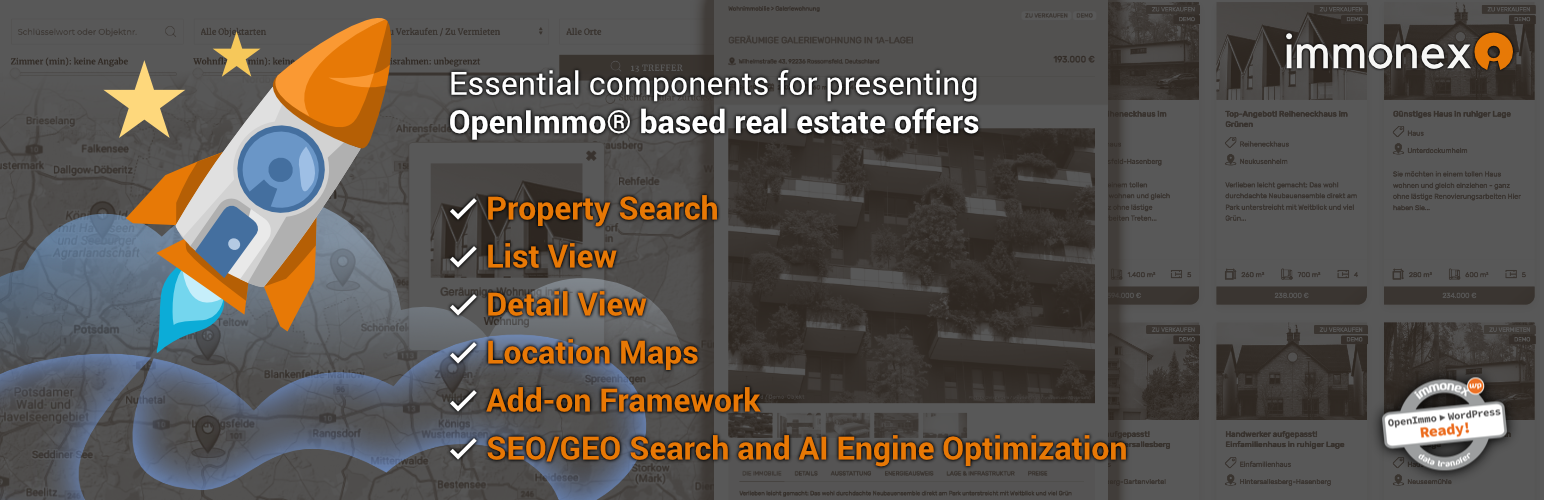
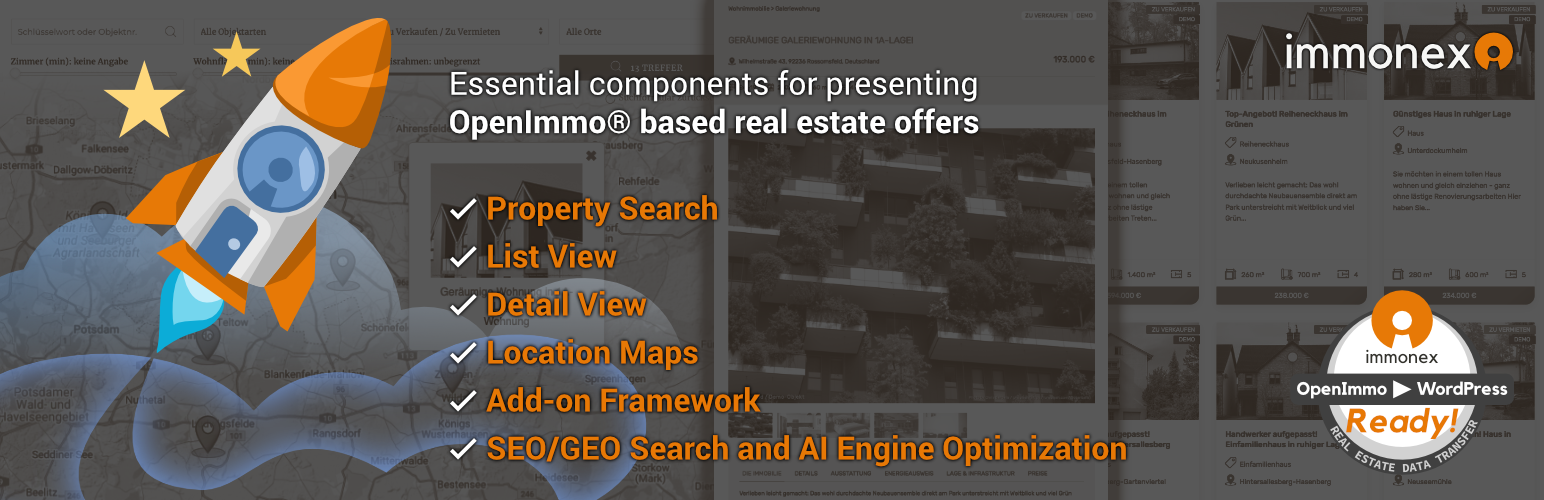
feat: search result page handling
- add "current" option for the search form shortcode attribute
   results-page-id
 - add JS-based automatic determination of the result page for
   real estate searches (search form action)
 - fix advanced search section closing bug
 - update REST URLs in JS components and dynamic CSS URLs to be
   compatible with plain permalink structures
 - update dependencies (i.a. core 2.7.0)
 - update user/dev documentation
 - update header images
 - bump stable version to 1.13.0

Changed region(s): [[0.8394, 0.57, 0.9948, 0.96]]

diff --git a/src/js/property_search.js b/src/js/property_search.js
@@ -141,7 +141,7 @@ function invokeComponentUpdates(searchFormID, searchForm, formIndex) {
 		.replace(/\[[0-9]+\]/, '') // Remove numeric indices from array parameters, too.
 
 	let url = inx_state.core.rest_base_url + 'immonex-kickstart/v1/properties/'
-	url += '?inx-r-response=count&inx-r-lang=' + inx_state.core.locale.substring(0, 2)
+	url += (url.indexOf('?') === -1 ? '?' : '&') + 'inx-r-response=count&inx-r-lang=' + inx_state.core.locale.substring(0, 2)
 	let backlinkURL = $(searchForm).attr('action') || window.location.href.split('?')[0]
 	if (requestParamsString) {
 		url += '&' + requestParamsString
@@ -481,6 +481,19 @@ async function init() {
 
 	$('.inx-property-search.inx-dynamic-update').on('search:change', debounce(updateFiltersSortRequestParams, debounceDelay))
 	$('.inx-property-search').on('search:change', debounce(updateNumberOfMatches, debounceDelay))
+
+	$("form[id^='inx-property-search-main-form']").each((index, searchForm) => {
+		if (
+			$(searchForm).data('form-action-autodetect')
+			&& $('.inx-property-list').length
+		) {
+			/**
+			 * Set the current page (URL specified via form action autodetect attribute)
+			 * as search form action if a list element is present here.
+			 */
+			searchForm.action = $(searchForm).data('form-action-autodetect')
+		}
+	})
 
 	window.setTimeout(() => { if (!searchStateInitialized) updateSearchState() }, debounceDelay);
 } // init

diff --git a/src/js/property_map.js b/src/js/property_map.js
@@ -36,7 +36,7 @@ async function updateMaps(event, requestParams) {
 
 		if ($('#' + elementID).length && $('#' + elementID).hasClass('inx-property-map-container')) {
 			let url = inx_state.core.rest_base_url + 'immonex-kickstart/v1/properties/'
-			url += '?inx-r-response=json_map_markers&inx-r-lang=' + inx_state.core.locale.substring(0, 2)
+			url += (url.indexOf('?') === -1 ? '?' : '&') + 'inx-r-response=json_map_markers&inx-r-lang=' + inx_state.core.locale.substring(0, 2)
 			if (requestParams) {
 				if (typeof requestParams === 'string') {
 					url += '&' + requestParams

diff --git a/src/js/components/PropertyOpenLayersMap.vue b/src/js/components/PropertyOpenLayersMap.vue
@@ -228,7 +228,7 @@ export default {
 			}
 
 			let url = inx_state.core.rest_base_url + 'immonex-kickstart/v1/properties/' + propertyPostIds + '/'
-				+ '?inx-r-response=json_map_markers&inx-r-lang=' + inx_state.core.locale.substring(0, 2)
+			url += (url.indexOf('?') === -1 ? '?' : '&') + 'inx-r-response=json_map_markers&inx-r-lang=' + inx_state.core.locale.substring(0, 2)
 
 			if (this.disableLinks) {
 				url += '&inx-r-disable-links=' + this.disableLinks

diff --git a/src/scss/blocks/_inx-link.scss b/src/scss/blocks/_inx-link.scss
@@ -4,6 +4,7 @@
 	display: flex;
 	align-items: center;
 	color: var(--inx-color-action-element);
+	cursor: pointer;
 	transition: filter .35s linear;
 
 	@at-root a#{&} {

diff --git a/src/includes/class-property-search.php b/src/includes/class-property-search.php
@@ -273,12 +273,24 @@ class Property_Search {
 		/**
 		 * Determine the form action URL.
 		 */
-		$default_action_url = false;
-		$form_action        = false;
+		$default_action_url     = false;
+		$form_action            = false;
+		$form_action_autodetect = '';
+		$current_url            = $this->utils['string']->get_nopaging_url();
+
+		if ( false === strpos( $current_url, '?' ) ) {
+			$current_url = trailingslashit( $current_url );
+		}
 
 		if ( ! empty( $atts['results-page-id'] ) ) {
-			// Specific page ID given as shortcode parameter: set as form action URL if valid.
-			$page_url = get_permalink( (int) $atts['results-page-id'] );
+			if ( 'current' === strtolower( (string) $atts['results-page-id'] ) ) {
+				// Set current page URL as form action if "current" is given as value of the results-page-id shortcode attribute.
+				$page_url = $current_url;
+			} else {
+				// Specific page ID given as shortcode parameter: set as form action URL if valid.
+				$page_url = get_permalink( apply_filters( 'inx_element_translation_id', (int) $atts['results-page-id'] ) );
+			}
+
 			if ( $page_url ) {
 				$form_action = $page_url;
 			}
@@ -306,7 +318,8 @@ class Property_Search {
 					// Set current page URL if page contains the property list shortcode.
 					$form_action = $this->utils['string']->get_nopaging_url();
 				} else {
-					$form_action = $default_action_url;
+					$form_action            = $default_action_url;
+					$form_action_autodetect = $current_url;
 				}
 			}
 		}
@@ -319,10 +332,11 @@ class Property_Search {
 			$this->config,
 			$atts,
 			array(
-				'form_action'    => $form_action,
-				'hidden_fields'  => $hidden_fields,
-				'elements'       => $elements,
-				'extended_count' => $extended_count,
+				'form_action'            => $form_action,
+				'form_action_autodetect' => $form_action_autodetect,
+				'hidden_fields'          => $hidden_fields,
+				'elements'               => $elements,
+				'extended_count'         => $extended_count,
 			)
 		);
 

diff --git a/src/includes/class-kickstart.php b/src/includes/class-kickstart.php
@@ -10,12 +10,12 @@ namespace immonex\Kickstart;
 /**
  * Main plugin class.
  */
-class Kickstart extends \immonex\WordPressFreePluginCore\V2_6_4\Base {
+class Kickstart extends \immonex\WordPressFreePluginCore\V2_7_0\Base {
 
 	const PLUGIN_NAME                = 'immonex Kickstart';
 	const PLUGIN_PREFIX              = 'inx_';
 	const PUBLIC_PREFIX              = 'inx-';
-	const PLUGIN_VERSION             = '1.12.29';
+	const PLUGIN_VERSION             = '1.13.0';
 	const PLUGIN_HOME_URL            = 'https://de.wordpress.org/plugins/immonex-kickstart/';
 	const PLUGIN_DOC_URLS            = array(
 		'de' => 'https://docs.immonex.de/kickstart/',
@@ -225,6 +225,7 @@ class Kickstart extends \immonex\WordPressFreePluginCore\V2_6_4\Base {
 						self::PUBLIC_PREFIX . 'author',
 						self::PUBLIC_PREFIX . 'ref',
 						self::PUBLIC_PREFIX . 'force-lang',
+						self::PUBLIC_PREFIX . 'dyn-css',
 					),
 					self::PUBLIC_PREFIX
 				);
@@ -579,7 +580,9 @@ class Kickstart extends \immonex\WordPressFreePluginCore\V2_6_4\Base {
 
 				wp_enqueue_style(
 					"inx-dyn-{$scope}",
-					home_url( "inx-dyn-{$scope}.css" ),
+					get_option( 'permalink_structure' ) ?
+						home_url( "inx-dyn-{$scope}.css" ) :
+						home_url( "/?inx-dyn-css={$scope}" ),
 					array(),
 					$this->plugin_version
 				);

diff --git a/src/skins/default/property-search/element-extended-search-toggle.php b/src/skins/default/property-search/element-extended-search-toggle.php
@@ -19,10 +19,10 @@ $inx_skin_element_name           = preg_replace( '/^element-/', '', basename( __
 ?>
 <div class="inx-form-element inx-form-element--<?php echo $inx_skin_element_name; ?>">
 	<hr>
+
 	<inx-toggle :state="0">
 		<template slot="active">
 			<a
-				href="javascript:void(0)"
 				class="inx-link inx-link--is-inline inx-extended-search-toggle"
 				uk-toggle="target:<?php echo $inx_skin_search_main_element_id; ?> .inx-property-search__extended; animation: uk-animation-slide-top-small uk-animation-fade"
 			>
@@ -32,7 +32,6 @@ $inx_skin_element_name           = preg_replace( '/^element-/', '', basename( __
 		</template>
 		<template slot="inactive">
 			<a
-				href="javascript:void(0)"
 				class="inx-link inx-link--is-inline inx-extended-search-toggle"
 				uk-toggle="target:<?php echo $inx_skin_search_main_element_id; ?> .inx-property-search__extended; animation: uk-animation-slide-top-small uk-animation-fade"
 			>

diff --git a/src/skins/default/property-search.php b/src/skins/default/property-search.php
@@ -48,7 +48,12 @@ $inx_skin_rendering_atts['top-level-only']         = ! empty( $template_data['to
 	data-dynamic-update="<?php echo esc_attr( $inx_skin_dynamic_update ); ?>"
 	<?php endif; ?>
 >
-	<form id="<?php echo $inx_skin_form_element_id; ?>" action="<?php echo $template_data['form_action']; ?>" method="get">
+	<form
+		id="<?php echo $inx_skin_form_element_id; ?>"
+		action="<?php echo $template_data['form_action']; ?>"
+		method="get"
+		data-form-action-autodetect="<?php echo ! empty( $template_data['form_action_autodetect'] ) ? esc_url( $template_data['form_action_autodetect'] ) : ''; ?>"
+	>
 		<?php
 		if ( count( $template_data['hidden_fields'] ) > 0 ) :
 			foreach ( $template_data['hidden_fields'] as $inx_skin_field ) :

diff --git a/src/immonex-kickstart.php b/src/immonex-kickstart.php
@@ -3,7 +3,7 @@
  * Plugin Name:       immonex Kickstart
  * Plugin URI:        https://wordpress.org/plugins/immonex-kickstart/
  * Description:       Essential components and add-on framework for embedding and searching/filtering imported OpenImmo-XML-based real estate offers
- * Version:           1.12.29
+ * Version:           1.13.0
  * Requires at least: 5.5
  * Requires PHP:      7.4
  * Author:            inveris OHG / immonex

diff --git a/src/includes/class-dynamic-css.php b/src/includes/class-dynamic-css.php
@@ -81,6 +81,14 @@ class Dynamic_CSS {
 	 * @since 1.9.53-beta
 	 */
 	public function send_on_request() {
+		$dyn_css_query_var = ! empty( $_GET['inx-dyn-css'] ) ?
+			sanitize_text_field( wp_unslash( $_GET['inx-dyn-css'] ) ) :
+			'';
+		if ( $dyn_css_query_var ) {
+			$scope = str_replace( '_', '-', $dyn_css_query_var );
+			$this->send( $scope );
+		}
+
 		if ( ! isset( $_SERVER['REQUEST_URI'] ) ) {
 			return;
 		}

diff --git a/doc/komponenten/suchformular.md b/doc/komponenten/suchformular.md
@@ -21,7 +21,7 @@ Standard-Suchformular (ohne Anpassungen)
 | `dynamic-update` | dynamische Aktualisierung der Inhalte von Immobilienlisten und Standort-Übersichtskarten auf der gleichen Seite (ohne Neuladen) bei Änderung der Suchparameter aktivieren (optional) |
 | | *all* oder *1* : alle Listen- und Kartenkomponenten der Seite (inkl. Seitennavigation und Auswahl der Sortierreihenfolge) |
 | | *inx-property-map, inx-property-list* (Beispiel): kommagetrennte Liste von **HTML-DOM-IDs** der zu aktualisierenden Komponenten (eigene IDs können per Attribut `cid` festgelegt werden) |
-| `results-page-id` | ID der Seite für die Ausgabe der Suchergebnisse (**optional**, Standardvorgabe: aktuelle Seite, sofern der Listen-Shortcode `[inx-property-list]` enthalten ist, ansonsten Standardseite für Immbobilienlisten) |
+| `results-page-id` | ID der Seite für die Ausgabe der Suchergebnisse oder *current* um **explizit** die aktuelle Seite\* hierfür festzulegen (**optional**, Standardvorgabe: aktuelle Seite, sofern der Listen-Shortcode `[inx-property-list]` enthalten ist, ansonsten Standardseite für Immbobilienlisten) |
 | `references` | Angaben wie *verkauft* oder *vermietet* werden in der Auswahlliste des Elements **Vermarktungsart** (`marketing-type`) standardmäßig ausgefiltert. Mit *yes* als Attributwert kann diese Filterung **deaktiviert** werden (optional). |
 | `top-level-only` | Auswahloptionen [hierarchischer Taxonomien](/beitragsarten-taxonomien) (z. B. Objektart) (optional) auf die **Hauptkategorien** der ersten Ebene beschränken (Attributwert *1*) |
 | `force-location` | Auswahloptionen des Elements `locality` (Objektstandort) auf die **Hauptkategorien** (Terms der [Taxonomie inx_location](/beitragsarten-taxonomien)) mit den angegebenen **Slugs** begrenzen (einzeln oder als kommagetrennte Liste) |
@@ -32,6 +32,8 @@ Standard-Suchformular (ohne Anpassungen)
 | `autocomplete-countries` | kommagetrennte Liste von Codes gem. [ISO 3166-1 ALPHA-2](https://www.nationsonline.org/oneworld/countrycodes.htm) der Länder, die bei der Autovervollständigung von Ortsnamen des Elements `distance-search-location` (11) berücksichtigt werden sollen (Standard bei aktivierter [Photon](https://photon.komoot.io/)-Ortssuche: *de,at,ch,lu,be,fr,nl,dk,pl,es,pt,it,gr*, bei Nutzung der [Google-Places-API](https://developers.google.com/maps/documentation/places/web-service/autocomplete) (max. 5): *de,at,ch,be,nl* |
 | `autocomplete-osm-place-tags` | kommagetrennte Liste von [OpenStreetMap-Place-Tags](https://wiki.openstreetmap.org/wiki/DE&colon;Key&colon;place) zur Filterung und Priorisierung der via [Photon](https://photon.komoot.io/) ermittelten Orte (Autovervollständigung) für das Element `distance-search-location` (11) der Umkreissuche (Standard: `city,town,village,borough,suburb`) |
 | `template` | alternative/benutzerdefinierte **Template-Datei** im Skin-Ordner zum Rendern der Inhalte verwenden (Dateiname ohne .php, z. B. *property-search/foobar*) |
+
+!> **\*** Wird ein Suchformular in die **Startseite** der Website eingebunden, erfolgt die Ausgabe der Ergebnisse nach einem Klick auf den **Absenden-Button** in der in den Plugin-Optionen festgelegten [primären Übersichtsseite](/schnellstart/einrichtung?id=immobilien-Übersicht), auch wenn die Startseite selbst eine Listenansicht enthält. Sollen die Ergebnisse stattdessen in der Startseite angezeigt werden, muss das Attribut `results-page-id="current"` im Shortcode enthalten sein.
 
 #### Elemente
 
@@ -141,7 +143,7 @@ Beispiel: Listenansicht (DOM-ID *inx-property-list*) und Immobilienkarte (*inx-p
 Bei paralleler Aktivierung der globalen Option hat die per Shortcode-Attribut definierte Angabe eine höhere Priorität. Im Beispiel sind die standardmäßig vergebenen DOM-IDs der Elemente für Listen- und Kartenansichten genannt, wobei hier bei einer Mehrfacheinbindung noch eine laufende Nummer angehangen wird: Bei zwei Listen in einer Seite erhalten diese bspw. die IDs *inx-property-list* und *inx-property-list-2*. Sollen stattdessen individuelle IDs vergeben werden, ist dies mit dem Attribut `cid` möglich:
 
 Beispiel: Suchformular und Instanz einer Listenansicht mit der DOM-ID *immo-liste* einfügen, die bei Änderung der Suchkriterien aktualisiert wird\
-`[inx-search-form dynamic-update="immo-liste"]`
+`[inx-search-form dynamic-update="immo-liste"]`\
 `[inx-property-list cid="immo-liste"]`
 
 ## Erweiterte Anpassungen

diff --git a/doc/schnellstart/einrichtung.md b/doc/schnellstart/einrichtung.md
@@ -65,13 +65,13 @@ Für die Nutzung der Google-Maps-Dienste ist ein **passender** API-Schlüssel er
 
 ##### Immobilien-Übersicht
 
-Als primäre Übersicht und Ausgabeziel für zugehörige Suchergebnisse fungiert das [Standard-Archiv für Immobilienbeiträge](/beitragsarten-taxonomien#immobilien-beiträge).
+Als **primäre Übersichtsseite** und Ausgabeziel für zugehörige Suchergebnisse fungiert das sog. [*Standard-Archiv* für Immobilienbeiträge](/beitragsarten-taxonomien#immobilien-beiträge).
 
 Soll stattdessen eine bestimmte **Seite** aufgerufen werden, die den [Listen-Shortcode `[inx-property-list]`](/komponenten/liste) enthält, kann diese entweder hier ausgewählt oder in Form der ID über das [Suchformular-Shortcode-Attribut `results-page-id`](/komponenten/suchformular#attribute) festgelegt werden.
 
 Neben einer regulären Seite kann auch ein *alternatives Archiv* für Immobilienbeiträge verwendet werden, das vom Theme oder einem anderen Plugin (bspw. Page/Site Builder) bereitgestellt wird. Die passende Auswahloption ist in diesem Fall `keine (Theme-Template verwenden)`.
 
-?> Enthält die Seite, in die das [Suchformular](/komponenten/suchformular) eingebunden ist, auch eine [Listenansicht](/komponenten/liste), wird diese automatisch für die Ausgabe der Ergebnisse beim Klick auf den Suchbutton verwendet, sofern keine alternative Zielseite per Shortcode-Attribut definiert wurde.
+?> Enthält die Seite, in die das [Suchformular](/komponenten/suchformular) eingebunden ist, auch eine [Listenansicht](/komponenten/liste), wird diese automatisch für die Ausgabe der Ergebnisse beim Klick auf den Suchbutton verwendet, sofern keine alternative Zielseite per Shortcode-Attribut `results-page-id` definiert wurde.
 
 #### Übersichtskarten
 
